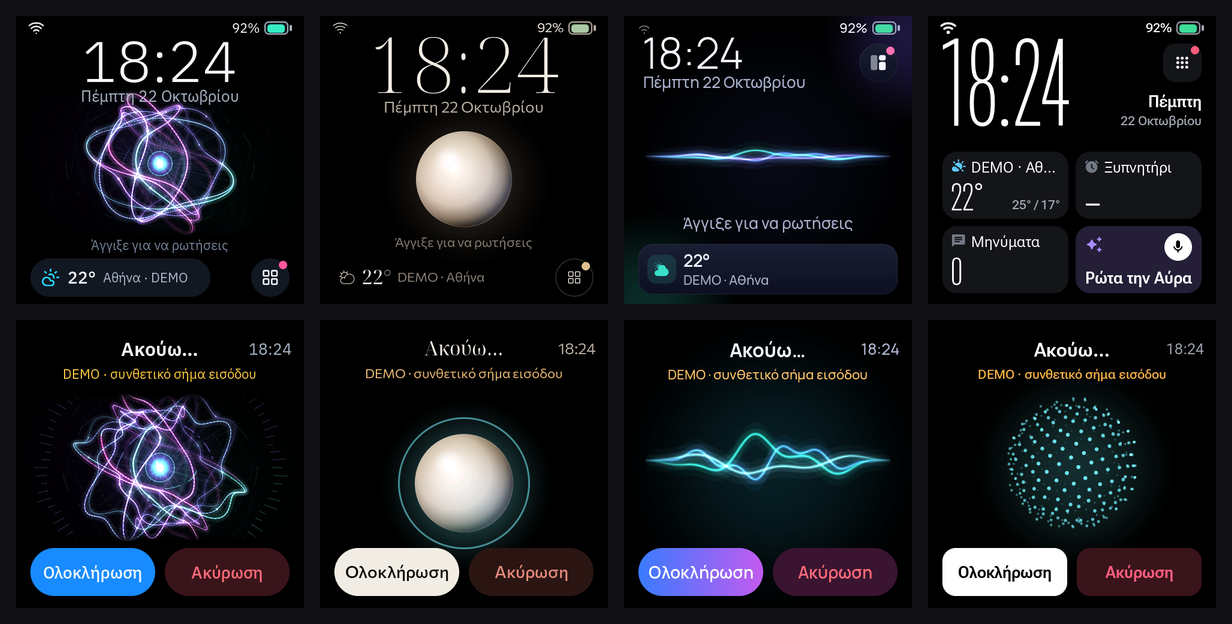
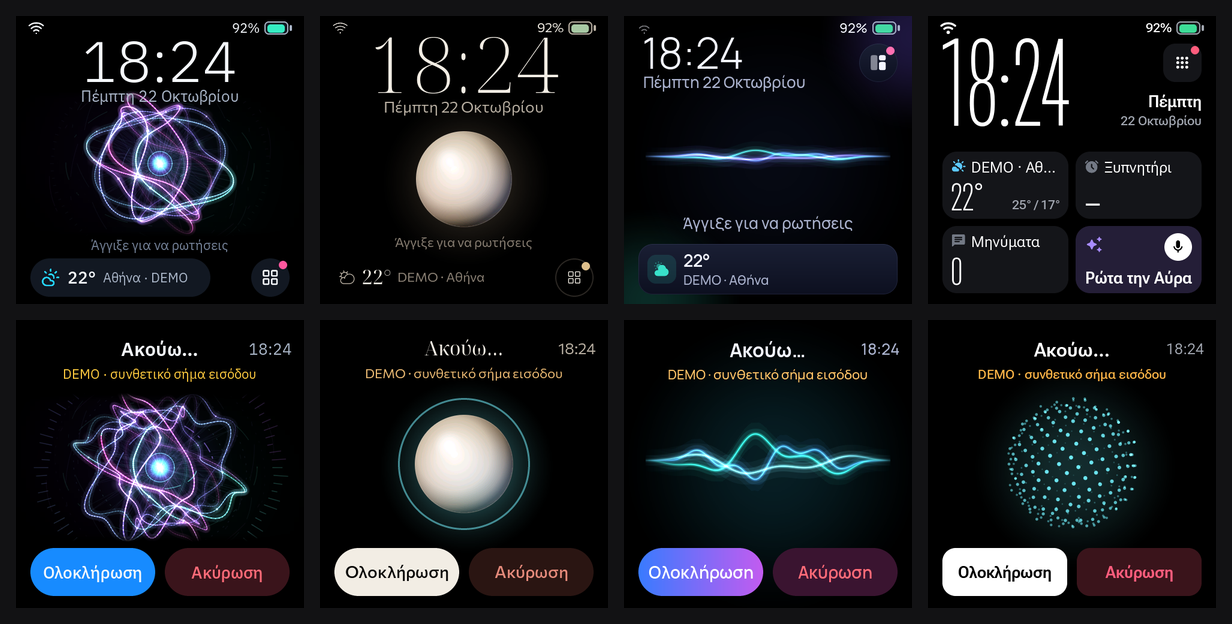
AURA: the README for version 1.0.0, and the card's row fits
The owner's request: the README matches version 1.0.0, with new
pictures.

- The status, the Greek summary, the device's assistant, the Settings
  row and the appearances describe 1.0.0 and point to
  docs/FIRST_FLASH.md.
- A fourth picture, docs/images/aura-v1-screens.png: Settings in four
  groups, Οθόνη, Κατάσταση συσκευής, Μάρμαρο listening, an action that
  asks first, and Σύστημα showing AURA 1.0.0.
  scripts/compose-readme-images.py captures it.
- All five pictures were made again after the full suite, so Μάρμαρο's
  centred pearl and the grouped settings show.

Found while making the picture: the card's row read «28,4 GB ελεύθερα
από 31,9…», cut off, under a title that repeated its caption. It is
now «Ελεύθερος χώρος», «28,4 GB από 31,9 GB». status.card_format
checks it; it failed first, then passed.

Verified:
- scripts/test.ps1 passed: CTest 52/52, bridge 38/38 and 5/5, pointer
  288/288 at 1x and 2x.
- The firmware builds with 0 warnings: app 0x4ba960, 32% free.

Changed region(s): [[0.3084, 0.6394, 0.4318, 0.883]]

diff --git a/scripts/compose-readme-images.py b/scripts/compose-readme-images.py
@@ -7,6 +7,9 @@
   Credits, the appearance setting, the Aoraton account and a conversation with
   a photo, eight screens at
   288 px on a dark page, Greek, in the Halo look.
+- docs/images/aura-v1-screens.png is captured here too: what version 1.0.0
+  changed (the grouped settings, Οθόνη, Κατάσταση συσκευής, Μάρμαρο's centred
+  pearl, an action that asks first, and the version in Σύστημα).
 
 Every capture pins the clock, the date and the labelled DEMO data, so an
 unchanged screen gives the same picture. scripts/compose-appearances.py makes
@@ -37,14 +40,22 @@ NEWER_SCREENS = (
     ("photos", "photo-ambient", "file-transfer-receiving", "credits"),
     ("appearance", "aoraton-account-signin", "aoraton-account", "aoraton-photo"),
 )
+V1 = IMAGES / "aura-v1-screens.png"
+# (scenario, look, list scroll in px)
+V1_SCREENS = (
+    (("settings", "halo", 0), ("settings", "halo", 420), ("settings", "halo", 864), ("display-settings", "halo", 288)),
+    (("battery", "halo", 620), ("listening", "marble", 0), ("answer-action", "halo", 0), ("system", "halo", 0)),
+)
 TILE = 288
 GAP = 16
 BACKGROUND = (18, 18, 20)
 
 
-def capture(scenario, folder):
-    path = Path(folder) / f"{scenario}.bmp"
-    command = [str(EXE), "--capture", scenario, "--screenshot", str(path), "--appearance", "halo"]
+def capture(scenario, folder, look="halo", scroll=0):
+    path = Path(folder) / f"{scenario}-{look}-{scroll}.bmp"
+    command = [str(EXE), "--capture", scenario, "--screenshot", str(path), "--appearance", look]
+    if scroll:
+        command += ["--capture-scroll", str(scroll)]
     result = subprocess.run(command, capture_output=True, text=True, timeout=180)
     if result.returncode != 0 or not path.exists():
         sys.exit(f"capture {scenario} failed: {result.stderr.strip() or result.stdout.strip()}")
@@ -75,6 +86,20 @@ def compose_newer():
     print(f"wrote {NEWER} ({width} x {height})")
 
 
+def compose_v1():
+    columns = max(len(row) for row in V1_SCREENS)
+    width = columns * TILE + (columns + 1) * GAP
+    height = len(V1_SCREENS) * TILE + (len(V1_SCREENS) + 1) * GAP
+    page = Image.new("RGB", (width, height), BACKGROUND)
+    with tempfile.TemporaryDirectory() as folder:
+        for row, screens in enumerate(V1_SCREENS):
+            for column, (scenario, look, scroll) in enumerate(screens):
+                screen = capture(scenario, folder, look, scroll).resize((TILE, TILE), Image.Resampling.LANCZOS)
+                page.paste(screen, (GAP + column * (TILE + GAP), GAP + row * (TILE + GAP)))
+    page.save(V1, optimize=True)
+    print(f"wrote {V1} ({width} x {height})")
+
+
 def main():
     parser = argparse.ArgumentParser(description=__doc__.splitlines()[0])
     parser.add_argument("--skip-sheets", action="store_true", help="only capture the newer screens")
@@ -86,6 +111,7 @@ def main():
         for source, target in SHEETS:
             scale_sheet(source, target)
     compose_newer()
+    compose_v1()
 
 
 if __name__ == "__main__":

diff --git a/shared/localization/src/companion_strings.cpp b/shared/localization/src/companion_strings.cpp
@@ -251,7 +251,8 @@ const CompanionStrings& companion_el_gr() noexcept {
         s.volts_format = "%d,%02d V";
         s.celsius_format = "%d °C";
         s.storage_title = "Κάρτα SD";
-        s.storage_free_format = "%s ελεύθερα από %s";
+        s.storage_free_title = "Ελεύθερος χώρος";
+        s.storage_free_format = "%s από %s";
         s.storage_missing = "Δεν υπάρχει κάρτα";
         s.storage_format = "Διαμόρφωση κάρτας";
         s.storage_format_question = "Διαμόρφωση κάρτας;";
@@ -721,7 +722,8 @@ const CompanionStrings& companion_en_us() noexcept {
         s.volts_format = "%d.%02d V";
         s.celsius_format = "%d °C";
         s.storage_title = "SD card";
-        s.storage_free_format = "%s free of %s";
+        s.storage_free_title = "Free space";
+        s.storage_free_format = "%s of %s";
         s.storage_missing = "No card";
         s.storage_format = "Format card";
         s.storage_format_question = "Format the card?";

diff --git a/simulator/app/src/main.cpp b/simulator/app/src/main.cpp
@@ -4471,7 +4471,9 @@ int main(int argc, char** argv) {
         reset_to(aura::UiView::Battery);
         const auto card_now = device_status.snapshot().storage;
         const bool storage_shown = card_now.known && card_now.present &&
-                                find_text(ui.root(), text_now.storage_title) != nullptr;
+                                // The row names the space, not the card again, and its
+                                // detail fits whole (2026-11-14): «28,4 GB από 31,9 GB».
+                                find_text(ui.root(), text_now.storage_free_title) != nullptr;
         const int format_before = interaction_counts.system_action;
         const bool format_row = tap_label(text_now.storage_format);
         const bool first_ask = ui.view() == aura::UiView::SystemConfirm &&

diff --git a/shared/ui/src/aura_ui.cpp b/shared/ui/src/aura_ui.cpp
@@ -3817,7 +3817,7 @@ struct AuraUi::Impl {
                           storage_size_text(card.total_bytes).c_str());
             space = text;
         }
-        list_row(list, y, c().storage_title, space.c_str(), ui::IconRole::Storage,
+        list_row(list, y, card.present ? c().storage_free_title : c().storage_title, space.c_str(), ui::IconRole::Storage,
                  card.present ? ui::tokens::blue : ui::tokens::text_tertiary, 72);
         y += 82;
         if (card.present) {

diff --git a/shared/localization/include/aura/companion_strings.hpp b/shared/localization/include/aura/companion_strings.hpp
@@ -263,7 +263,8 @@ struct CompanionStrings {
     const char* volts_format;
     const char* celsius_format;
     const char* storage_title;
-    const char* storage_free_format;
+    const char* storage_free_title;   // the row under the card's caption
+    const char* storage_free_format;  // free %s of total %s
     const char* storage_missing;
     const char* storage_format;
     const char* storage_format_question;

diff --git a/README.md b/README.md
@@ -2,7 +2,9 @@
 
 **A Greek-first AI companion for a 480 × 480 AMOLED ESP32-S3 device.** One shared C++17 core and LVGL interface run in two places: a native Windows simulator you can use today, and ESP-IDF firmware for the Waveshare ESP32-S3-Touch-AMOLED-2.16 board.
 
-> **Status (November 2026).** The simulator is feature-complete for the v13 "Companion" release, with photos, local file transfer, realtime messages, a glass header in every look and Halo's Σύναψη drawn 1:1 from its approved design. It passes the full automated suite. The firmware compiles cleanly with ESP-IDF 5.5.5 and now has its own assistant (Groq and Azure), encrypted storage, signed updates and power management, but it **has not been flashed**: nothing that depends on the physical board is claimed to work yet. See [docs/VERIFICATION.md](docs/VERIFICATION.md) for every result.
+> **Status: version 1.0.0 (November 2026), ready for its first flash.** The simulator is feature-complete, with photos, local file transfer, realtime messages, a glass header in every look and Halo's Σύναψη drawn 1:1 from its approved design. It passes the full automated suite. The firmware compiles cleanly with ESP-IDF 5.5.5 and does on the device what the simulator does: its own assistant (Groq and Azure) with actions that ask first, messages and notes by voice, continuous conversation and barge-in, encrypted storage, signed updates and power management. It **has not run on the board yet**: nothing that depends on the physical board is claimed to work until the checks in [docs/FIRST_FLASH.md](docs/FIRST_FLASH.md) pass. See [docs/VERIFICATION.md](docs/VERIFICATION.md) for every result.
+
+![Version 1.0.0: Settings in four groups (Συνδέσεις, Οθόνη και ήχος, Βοηθός, Συσκευή), Οθόνη with 24-hour time and reduced motion, Κατάσταση συσκευής with the battery's details and the microSD card's free space, Μάρμαρο's pearl centred while listening, a timer the assistant proposes and waits to have confirmed, and Σύστημα showing AURA 1.0.0](docs/images/aura-v1-screens.png)
 
 ![AURA production screens: home, listening, thinking, speaking, answers, apps, settings, sound, messages, Wi-Fi and system](docs/images/aura-production-screens.png)
 
@@ -10,11 +12,11 @@
 
 ![Newer screens: photos, the always-on clock over a photo, file transfer with its QR code, credits, the appearance setting, Aoraton sign-in, the Aoraton account, and a conversation with a photo and the voice-message button](docs/images/aura-newer-screens.png)
 
-All names, rooms, messages, photos and data in the screenshots are fictional `DEMO` content. After a full test run, `python scripts/compose-readme-images.py` refreshes these three pictures.
+All names, rooms, messages, photos and data in the screenshots are fictional `DEMO` content. After a full test run, `python scripts/compose-readme-images.py` refreshes these four pictures.
 
 ## Σύντομα στα ελληνικά
 
-Η AURA είναι ένας ελληνόφωνος βοηθός AI για μια μικρή συσκευή με τετράγωνη οθόνη AMOLED 480 × 480 (ESP32-S3). Μιλάς ή γράφεις και απαντά με φωνή και κείμενο. Έχει ρολόι, ξυπνητήρια, υπενθυμίσεις, σημειώσεις (και φωνητικές), ημερολόγιο με εργασίες και λίστα αγορών, καιρό, ελληνικό ραδιόφωνο, εορτολόγιο και αργίες, τιμές καυσίμων, φωτογραφίες από την κάρτα microSD, μεταφορά αρχείων από το κινητό ή τον υπολογιστή μέσα από το τοπικό Wi-Fi, μηνύματα Aoraton με κρυπτογράφηση που φτάνουν αμέσως και ειδοποιήσεις από το iPhone. Έχει τέσσερις εμφανίσεις (Άλως, Μάρμαρο, Σέλας, Γραφίτης) που επιλέγεις από τις Ρυθμίσεις → Εμφάνιση. Ο ίδιος κώδικας τρέχει στον προσομοιωτή των Windows και στο firmware της συσκευής. Στη συσκευή ο βοηθός μιλά απευθείας με το Groq και το Azure, με κλειδιά που στέλνεις μία φορά από τον υπολογιστή και φυλάσσονται κρυπτογραφημένα. Ο προσομοιωτής δουλεύει σήμερα· το firmware χτίζεται, αλλά δεν έχει δοκιμαστεί ακόμα σε πραγματική πλακέτα.
+Η AURA είναι ένας ελληνόφωνος βοηθός AI για μια μικρή συσκευή με τετράγωνη οθόνη AMOLED 480 × 480 (ESP32-S3). Μιλάς ή γράφεις και απαντά με φωνή και κείμενο. Έχει ρολόι, ξυπνητήρια, υπενθυμίσεις, σημειώσεις (και φωνητικές), ημερολόγιο με εργασίες και λίστα αγορών, καιρό, ελληνικό ραδιόφωνο, εορτολόγιο και αργίες, τιμές καυσίμων, φωτογραφίες από την κάρτα microSD, μεταφορά αρχείων από το κινητό ή τον υπολογιστή μέσα από το τοπικό Wi-Fi, μηνύματα Aoraton με κρυπτογράφηση που φτάνουν αμέσως και ειδοποιήσεις από το iPhone. Έχει τέσσερις εμφανίσεις (Άλως, Μάρμαρο, Σέλας, Γραφίτης) που επιλέγεις από τις Ρυθμίσεις → Εμφάνιση. Ο ίδιος κώδικας τρέχει στον προσομοιωτή των Windows και στο firmware της συσκευής. Στη συσκευή ο βοηθός μιλά απευθείας με το Groq και το Azure, με κλειδιά που στέλνεις μία φορά από τον υπολογιστή και φυλάσσονται κρυπτογραφημένα. Οι Ρυθμίσεις χωρίζονται σε τέσσερις ομάδες: Συνδέσεις, Οθόνη και ήχος, Βοηθός, Συσκευή. Η έκδοση 1.0.0 είναι η πρώτη για την πλακέτα: ο προσομοιωτής δουλεύει σήμερα, και το firmware κάνει ό,τι κι εκείνος (ενέργειες με επιβεβαίωση, μηνύματα και σημειώσεις με φωνή, συνεχής συζήτηση), αλλά δεν έχει δοκιμαστεί ακόμα σε πραγματική πλακέτα. Τα βήματα για το πρώτο flash είναι στο [docs/FIRST_FLASH.md](docs/FIRST_FLASH.md).
 
 ## Contents
 
@@ -43,7 +45,7 @@ All names, rooms, messages, photos and data in the screenshots are fictional `DE
 - **Works offline for everyday commands.** Timers, alarms, notes, tasks, shopping, volume, mute, brightness, the time, the battery and opening apps are understood on the device itself, in Greek and English. A sentence that merely mentions these words is left to the assistant.
 - **Local answers.** "Who celebrates today?", "When does Γιώργος celebrate?" and "When is the next public holiday?" are answered from an offline Greek Orthodox calendar.
 - **Explicit web search.** "Ψάξε…" / "search for…" uses live search only when the provider has a real search tool: the Codex CLI, or since 2026-11-11 Groq's browser search (`run.bat groq` and the device). Otherwise the assistant says it cannot search right now.
-- **On the device, without a PC.** The firmware talks to Groq (speech recognition, and answers from `gpt-oss-120b`) and to Azure Speech (the voice) directly over HTTPS, with the same instructions as the bridge ([ADR 0009](docs/ADR/0009-device-direct-cloud-assistant.md)). Spoken questions and answers work there; confirming a proposed action is not wired on the device yet, so it declines actions.
+- **On the device, without a PC.** The firmware talks to Groq (speech recognition, and answers from `gpt-oss-120b`) and to Azure Speech (the voice) directly over HTTPS, with the same instructions as the bridge ([ADR 0009](docs/ADR/0009-device-direct-cloud-assistant.md)). Since 1.0.0 it does there what the simulator does: a proposed action asks first and runs on confirmation (the same executor), a message by voice opens Aoraton's confirmation for the room named, voice notes are transcribed, and after a spoken answer it listens again or stops when spoken over. Without the microSD card it still listens and answers.
 
 ### Apps
 
@@ -61,7 +63,7 @@ The apps grid can be rearranged: tap the pencil, then an app, then its new place
 | Photos | JPG and PNG photos from the microSD card: gallery, full screen, swipes, a slideshow, deletion with confirmation, and an optional dimmed photo behind the always-on clock |
 | Notifications | AURA and phone notifications in one place |
 | Organizer | Agenda, tasks and shopping list |
-| Settings | Wi-Fi, language, appearance, AI provider, reduced motion, sound, display, voice, weather, file transfer and system |
+| Settings | Four groups: Συνδέσεις (Wi-Fi, phone, file transfer), Οθόνη και ήχος (display with 24-hour time and reduced motion, appearance, sound and voice), Βοηθός (AI provider, weather) and Συσκευή (language, device status, system) |
 
 ### Device
 
@@ -71,7 +73,7 @@ The apps grid can be rearranged: tap the pencil, then an app, then its new place
 - **Settings in four groups.** Συνδέσεις (Wi-Fi, phone, File transfer), Οθόνη και ήχος (Οθόνη with Λιγότερη κίνηση, Εμφάνιση, Ήχος), Βοηθός (the assistant, weather) and Συσκευή (language, status, system). On the device the assistant's row names who answers and who speaks (Groq · φωνή Azure).
 - **Device status.** Settings → Κατάσταση συσκευής shows the battery: percentage, charging stage, battery, USB and system voltage, the power chip's temperature and the rated 1000 mAh. The chip measures no health or cycles. It also shows the microSD card's free space, with a format that asks twice, and a switch for the status bar's battery percentage. Settings → Οθόνη switches between 24-hour time and 12-hour time (2:05 μ.μ.).
 - **Local file transfer.** Settings → Μεταφορά αρχείων shows a QR code and a six-digit code. From a phone or PC on the same Wi-Fi you send photos (prepared for the 480 × 480 screen in the browser) or other files, and you can list or delete them. Access lasts ten minutes and ends when you stop it. See [docs/FILE_TRANSFER.md](docs/FILE_TRANSFER.md).
-- **System.** Signed updates (OTA with rollback), diagnostics, credits, restart, power off, and a factory reset that erases settings and data but keeps your photos and files.
+- **System.** The version (AURA 1.0.0), signed updates (OTA with rollback), diagnostics, credits, restart, power off, and a factory reset that erases settings and data but keeps your photos and files.
 - **Phone link.** Notifications and calls from a paired iPhone over Bluetooth LE (ANCS). In the simulator this uses the PC's Bluetooth adapter and is experimental.
 
 ### Appearances
@@ -84,6 +86,8 @@ Settings → Εμφάνιση offers four looks. A look sets the colours, typefa
 | Μάρμαρο (Marble) | Quiet luxury: ivory and champagne on black, hairlines | Noto Serif Display, Commissioner | Phosphor Light | Μαργαριτάρι, a pearl |
 | Σέλας (Aurora) | Living light: glass surfaces and soft light fields | Manrope | Solar Bold Duotone | Σέλας, three ribbons of light |
 | Γραφίτης (Graphite) | A precision instrument: live tiles and gauges | Roboto Flex | Material Symbols Rounded | Αστερισμός, a sphere of points |
+
+On the voice screens each presence sits in the middle of the space between the caption and the buttons. Μάρμαρο's pearl, low under the numerals on Home, rises there when it listens, so its ring never touches the buttons.
 
 ![The four appearances, left to right Άλως, Μάρμαρο, Σέλας and Γραφίτης: Home above, listening below](docs/images/aura-appearances.png)
 

diff --git a/docs/VERIFICATION.md b/docs/VERIFICATION.md
@@ -4,6 +4,9 @@ Updated: 2026-11-14 (Europe/Athens): the first-flash batch: version 1.0.0, the d
 
 | Check | Status | Evidence / blocker |
 |---|---|---|
+| README for version 1.0.0 | PASSED | 2026-11-14, the owner's request. The status, the Greek summary, the device's assistant, the Settings row and the appearances now describe 1.0.0. A fourth picture, `docs/images/aura-v1-screens.png`, shows the grouped settings, Οθόνη, Κατάσταση συσκευής, Μάρμαρο listening, an action that asks first and Σύστημα (AURA 1.0.0); `scripts/compose-readme-images.py` now captures it. All five pictures were made again after the full suite below. |
+| The card's row fits | PASSED | 2026-11-14, found while making the picture. «28,4 GB ελεύθερα από 31,9…» was cut off, and its title «Κάρτα SD» repeated the caption above it. The row is now «Ελεύθερος χώρος», «28,4 GB από 31,9 GB». `status.card_format` checks the new title; it failed first (no `storage_free_title`), then passed. |
+| Full suite with the README pictures | PASSED | 2026-11-14, `scripts/test.ps1`: all runnable checks passed: CTest 52/52, the bridge 38/38 and 5/5, pointer coverage 288/288 at 1x and 2x, every capture verified. |
 | Version 1.0.0 for the first flash | PASSED | 2026-11-14, the owner's request: the first image on the board is the first working version. `firmware/version.txt` (which ESP-IDF builds into the image: `project_version` 1.0.0), the simulator's update model and the CMake project say 1.0.0. `releases/README.md` counts up from it. |
 | The device confirms the assistant's actions | PASSED (UNIT) / NEEDS HARDWARE | 2026-11-14. Before, the device refused every action the model proposed.<br>• **Now.** `VoiceAssistantTurn::set_action_handler` keeps the action and the controller waits in ActionConfirmation. On confirmation `execute_assistant_action` (`shared/core/src/assistant_actions.cpp`) runs it, the same code the simulator now uses.<br>• **Also fixed.** The device's voice turn now follows Ήχος: spoken answers on or off, and the chosen voice. Before, both were ignored.<br>• **Test.** `aura_voice_turn_tests` failed first (no `assistant_actions.hpp`), then passed: confirmation, the message refusal, a timer, shopping, a note, louder with unmute, brightness bounds. |
 | The device's voice: notes, messages, follow-up, barge-in | PASSED (UNIT) / NEEDS HARDWARE | 2026-11-14, the owner's request: what worked only in the simulator.<br>• **Voice notes.** A note heard speaking keeps its WAV after the card write and is transcribed by the assistant's speech service (Groq) through the shared `NoteTranscriptions`; without keys it stays audio only.<br>• **A message by voice.** `VoiceAssistantTurn::set_message_handler`: the answer is shown, then `assistant_message_room` (shared with the simulator) picks the room named, or the only one, and Aoraton's own confirmation opens. No room: «Δεν έγινε».<br>• **Continuous conversation.** Once the spoken answer has sounded and ended, the turn calls `listen_again`, unless the setting is off, an action waits for confirmation or the owner stopped the voice. A voice that never starts is given up after 3 s.<br>• **Barge-in.** While the answer is spoken the companion feeds the microphone into the shared `BargeInGate`; when it triggers, the voice stops and listening starts. The board has no echo reference, so it relies on the gate's calibration: to be tuned on the board.<br>• **Tests.** `aura_voice_turn_tests` failed first (no `set_message_handler`, `assistant_message_room`, `speaking`), then passed: the message handler, room matching, listening again once and only once, not with the setting off, not over a confirmation, and cancelling. The companion's part is firmware only; it compiles. |
